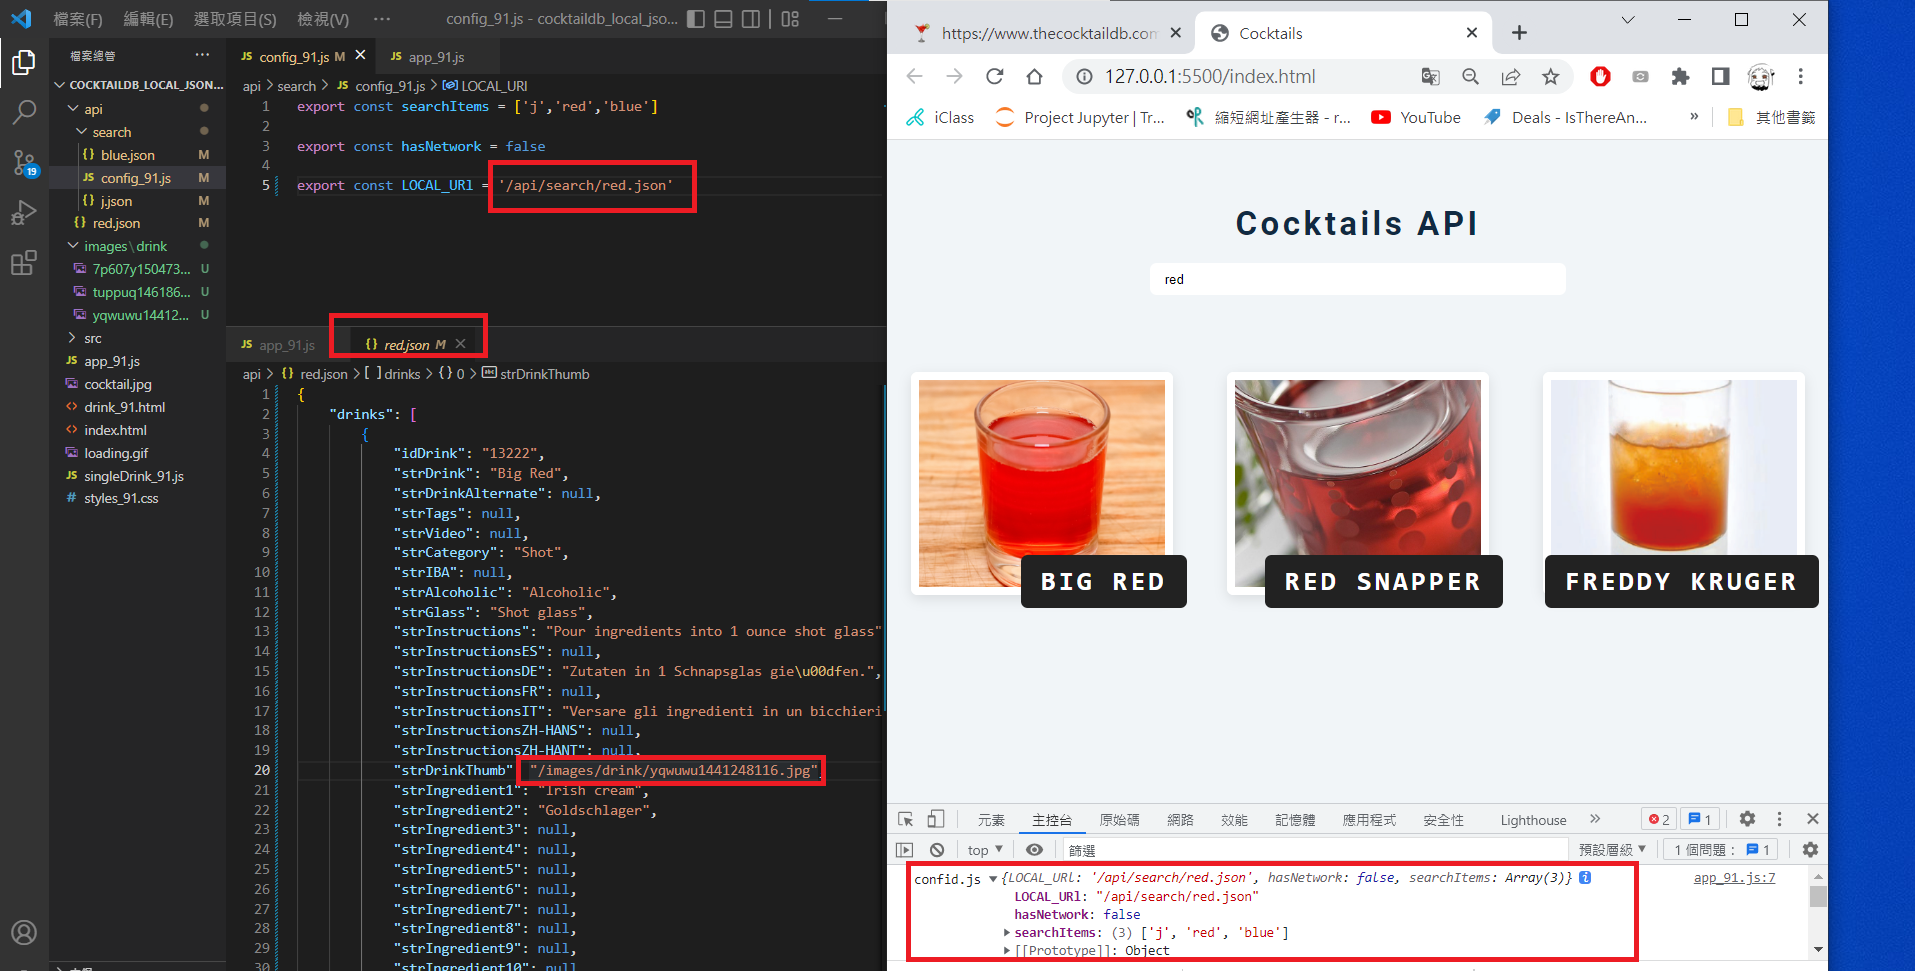
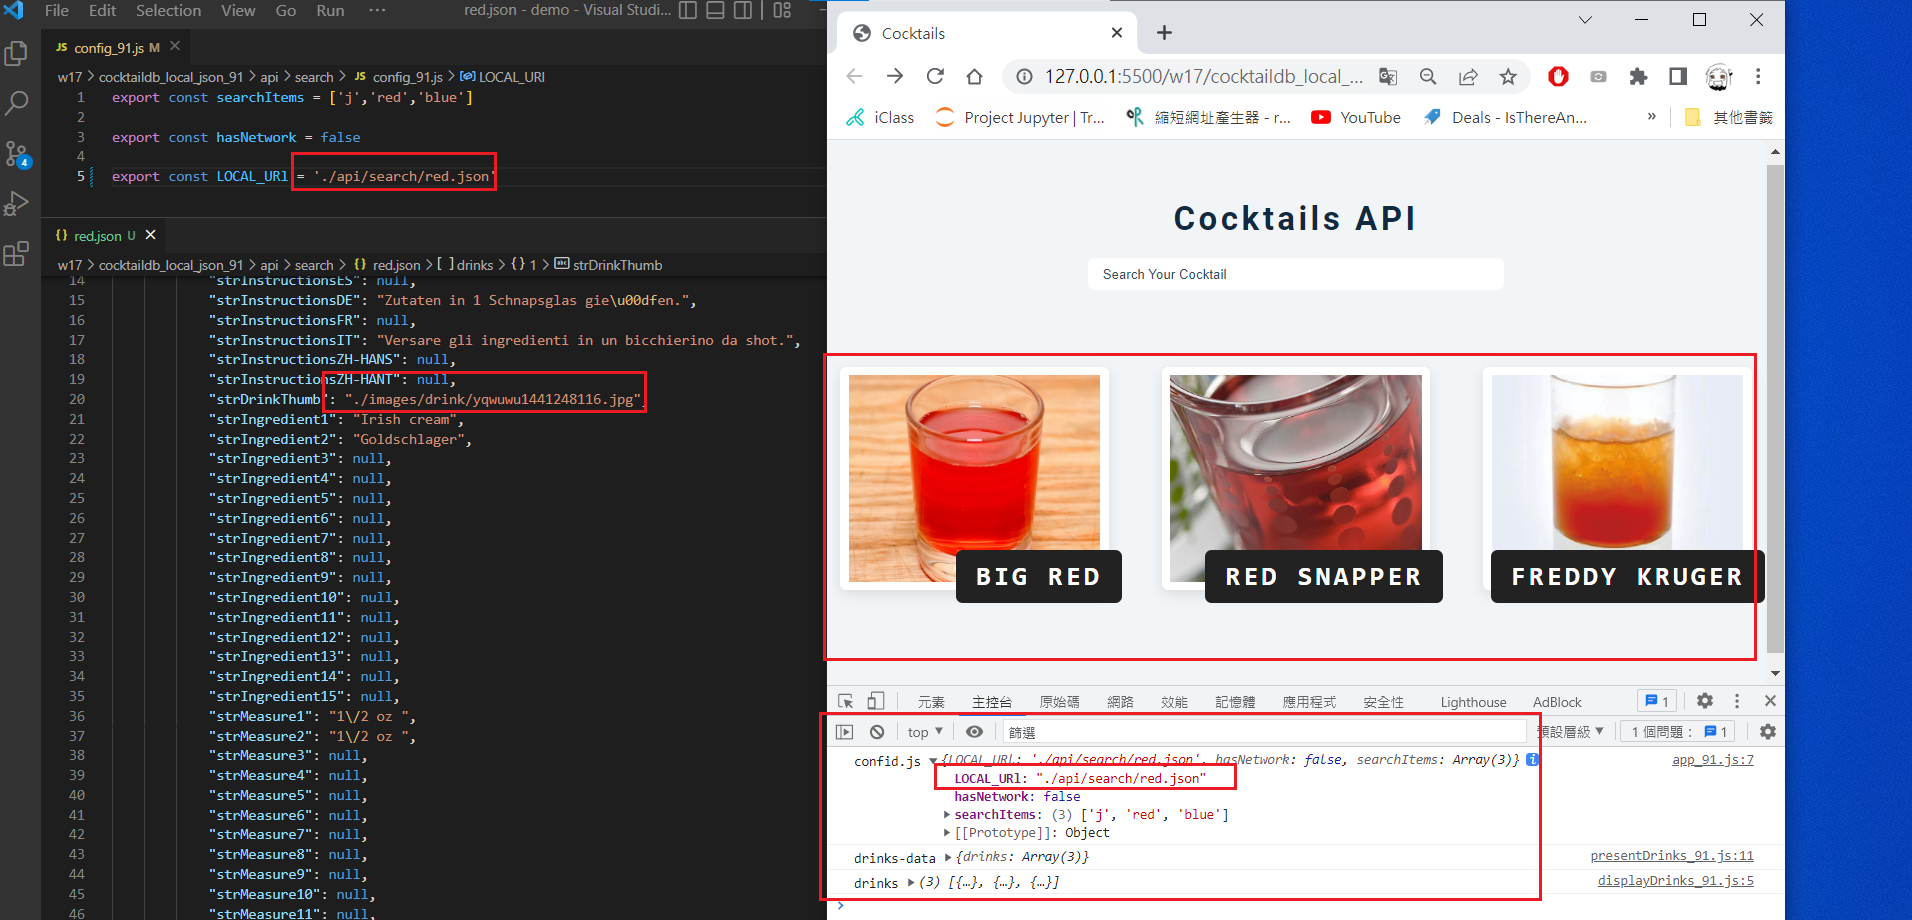
w17-02

diff --git a/demo/w17/cocktaildb_local_json_91/api/search/config_91.js b/demo/w17/cocktaildb_local_json_91/api/search/config_91.js
@@ -2,4 +2,4 @@ export const searchItems = ['j','red','blue']
 
 export const hasNetwork = false
 
-export const LOCAL_URl = '/api/search/red.json'
+export const LOCAL_URl = './api/search/red.json'

diff --git a/demo/w17/w17md/md.md b/demo/w17/w17md/md.md
@@ -1,2 +1,5 @@
 ### w17-p1: fetch local json data when hasNetwork=false
 ![](p1.png)
+### w17-p2: fetch a local json data with local images
+
+![](p2.png)
